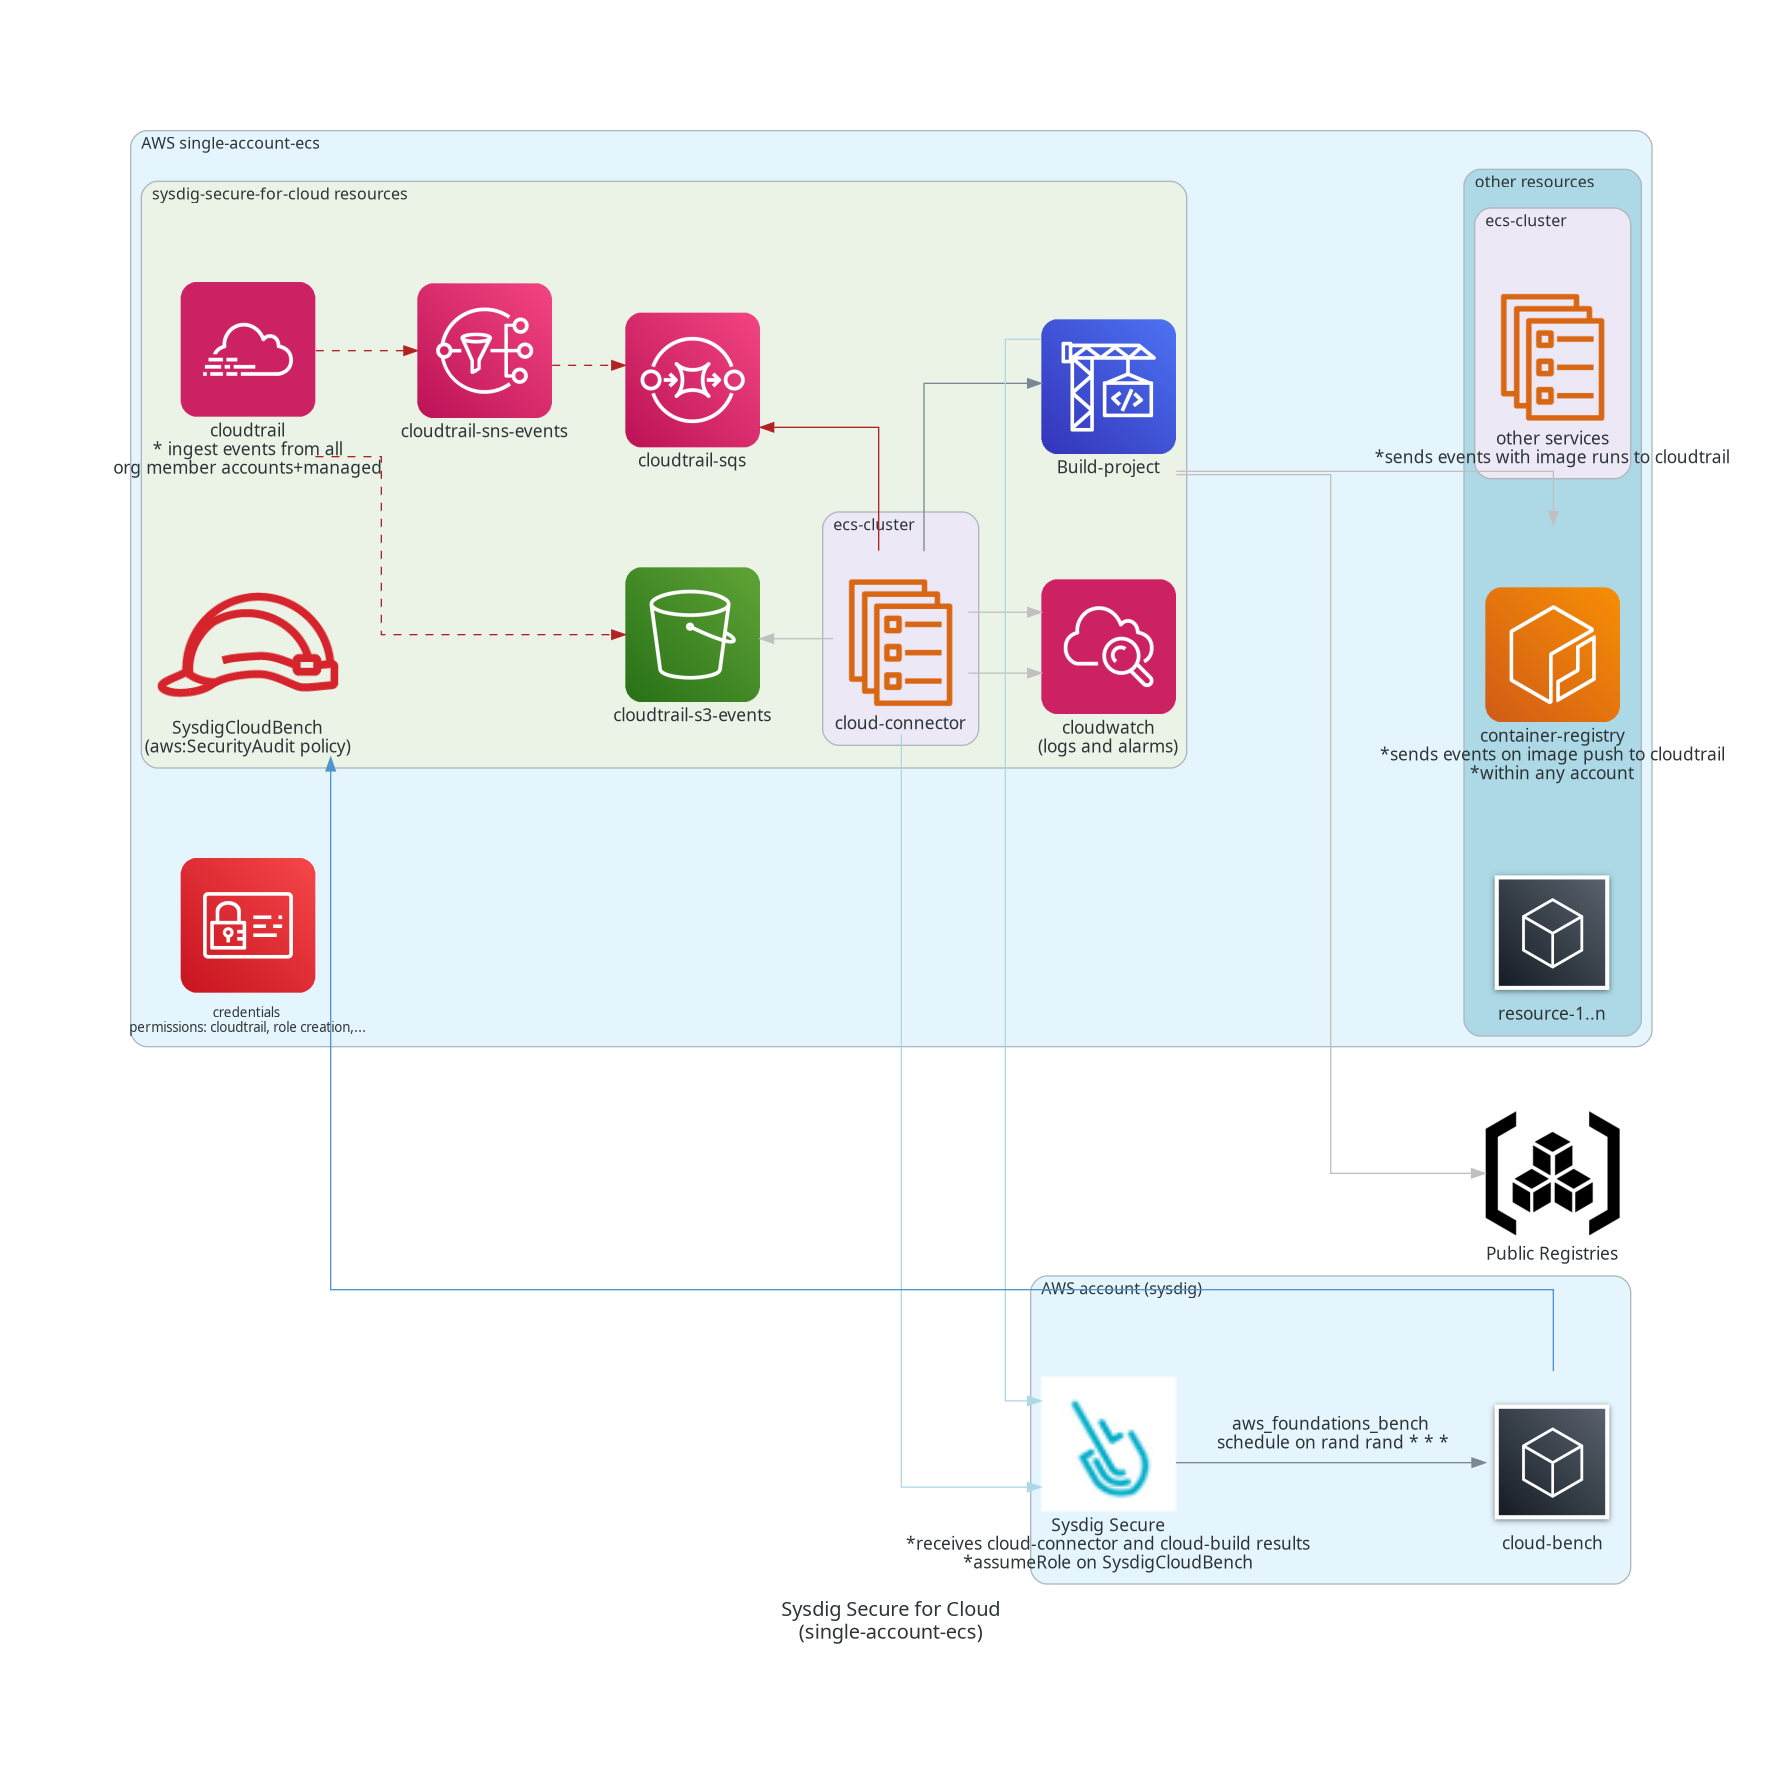
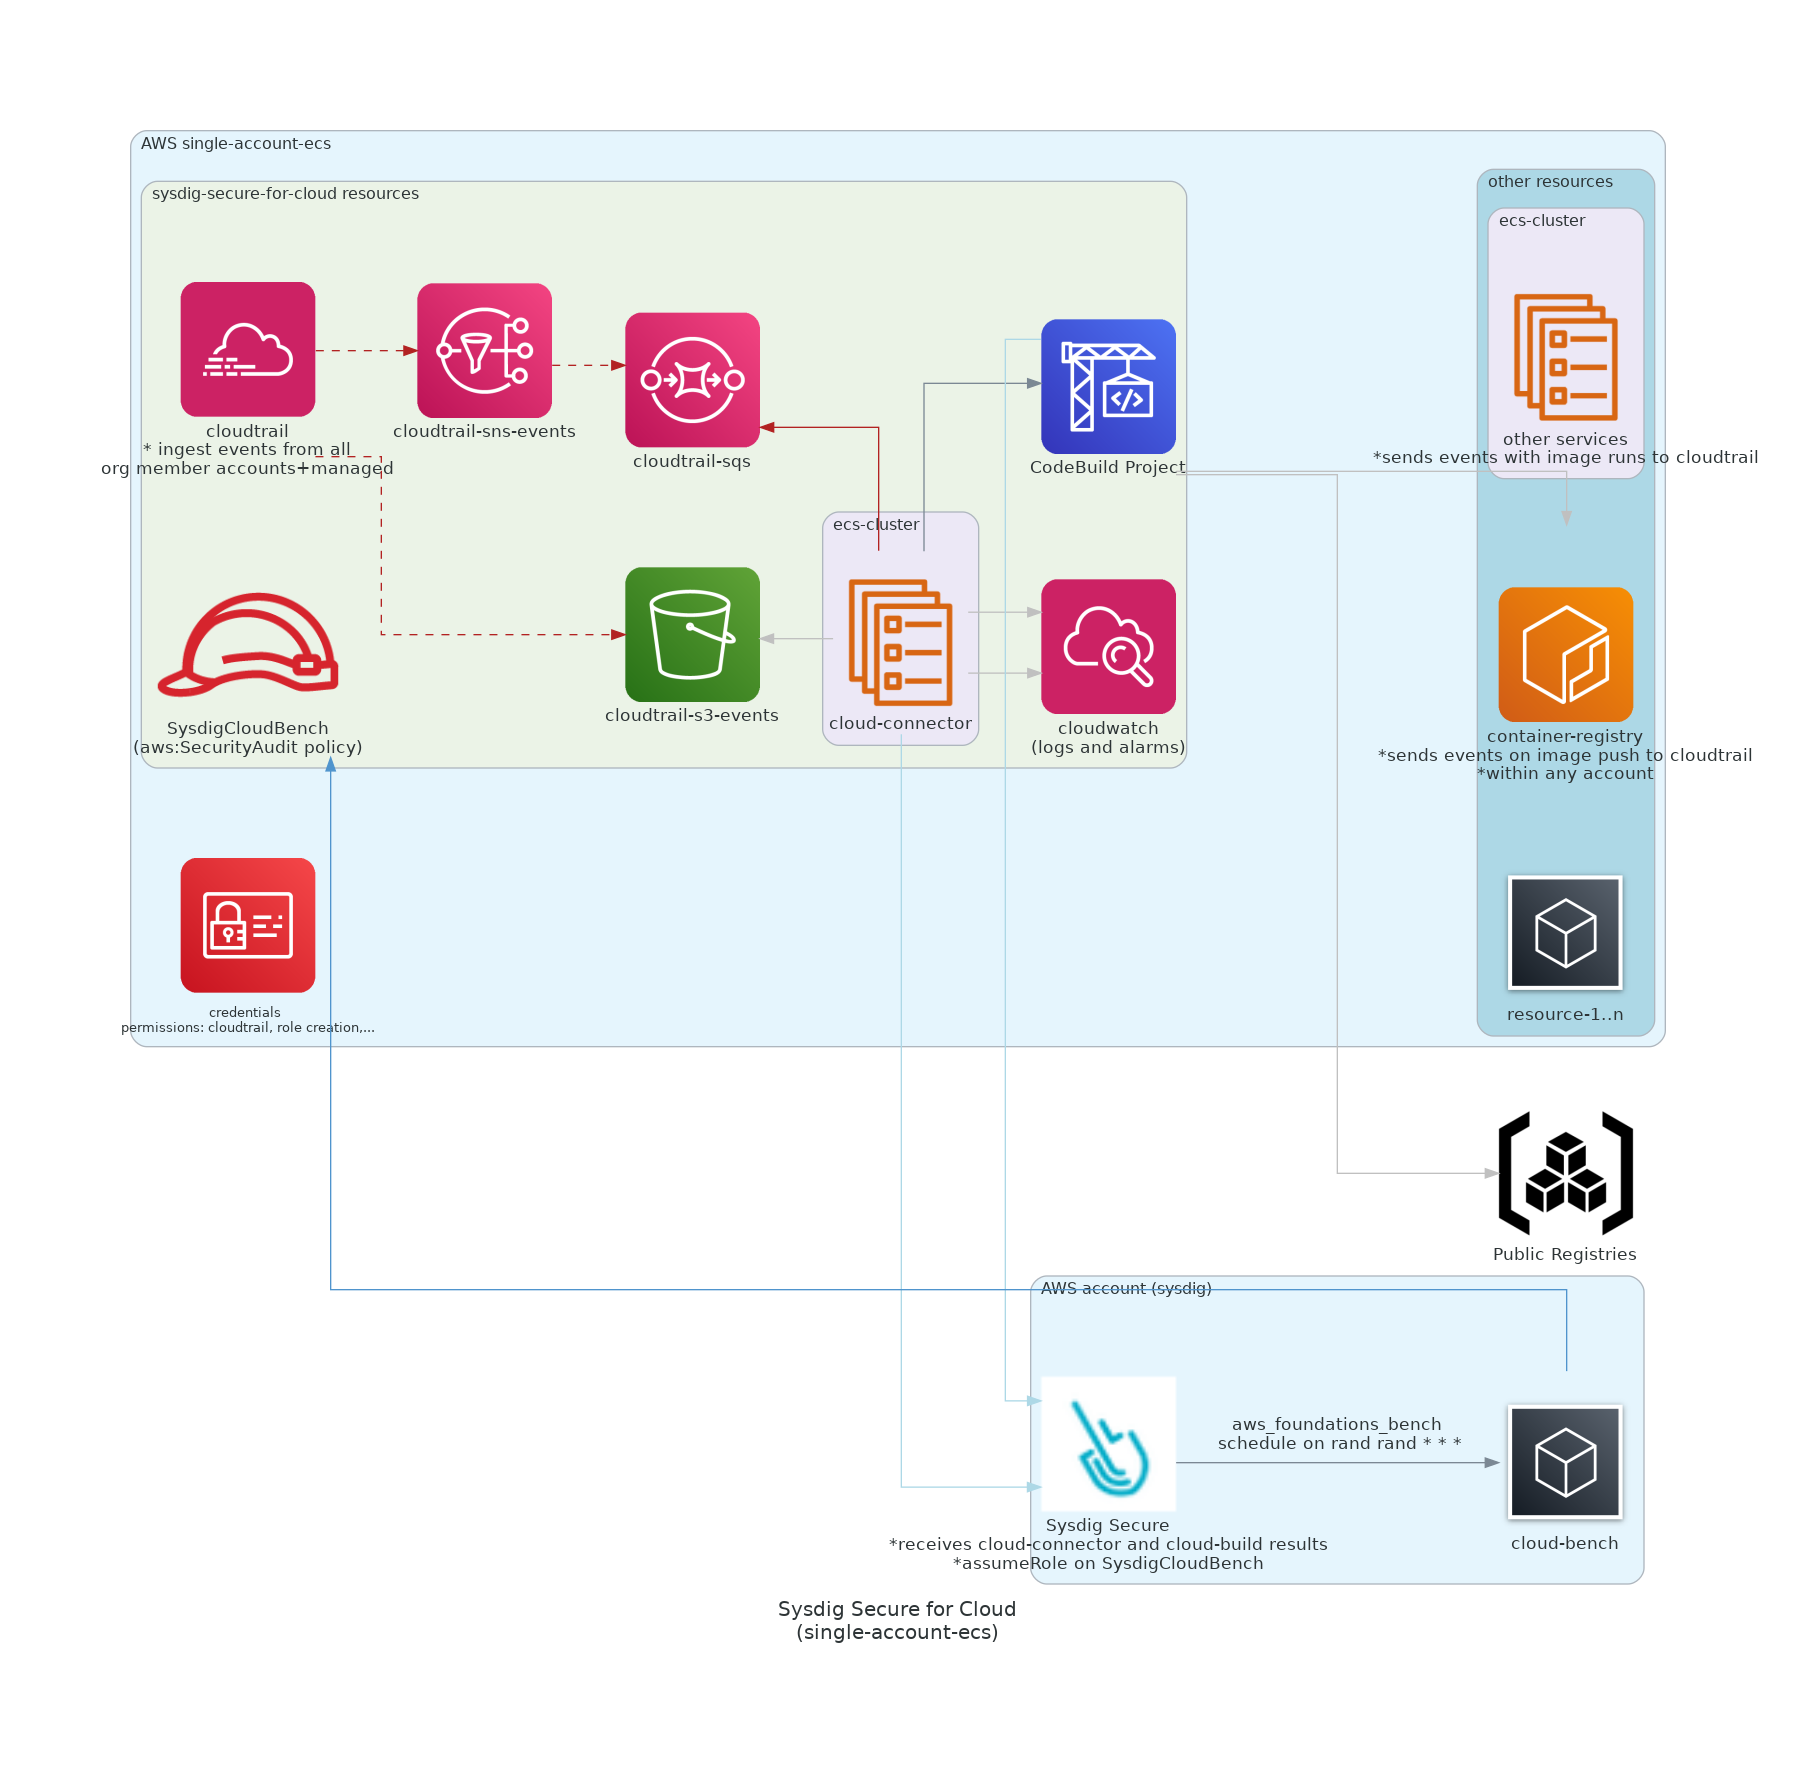
doc: add service name to scanning service

diff --git a/examples/single-account-apprunner/diagram-single.py b/examples/single-account-apprunner/diagram-single.py
@@ -69,7 +69,7 @@ with Diagram("Sysdig Secure for Cloud{}(single-account)".format("\n"), graph_att
             cloud_connector >> Edge(color=color_non_important) >>  cloudwatch
 
             # scanning
-            codebuild = Codebuild("Build-project")
+            codebuild = Codebuild("CodeBuild Project")
             cloud_connector >> Edge(color=color_non_important) >> cloudwatch
             cloud_connector >> codebuild
             codebuild >> Edge(color=color_non_important) >>  ecr

diff --git a/examples/single-account-ecs/diagram-single.py b/examples/single-account-ecs/diagram-single.py
@@ -70,7 +70,7 @@ with Diagram("Sysdig Secure for Cloud{}(single-account-ecs)".format("\n"), graph
             cloud_connector >> Edge(color=color_non_important) >>  cloudwatch
 
             # scanning
-            codebuild = Codebuild("Build-project")
+            codebuild = Codebuild("CodeBuild Project")
             cloud_connector >> Edge(color=color_non_important) >> cloudwatch
             cloud_connector >> codebuild
             codebuild >> Edge(color=color_non_important) >>  ecr

diff --git a/examples/organizational/diagram-org.py b/examples/organizational/diagram-org.py
@@ -67,7 +67,7 @@ with Diagram("Sysdig Secure for Cloud\n(organizational)", graph_attr=diagram_att
 
             sqs         = SQS("cloudtrail-sqs")
             cloudwatch  = Cloudwatch("cloudwatch\nlogs and alarms")
-            codebuild   = Codebuild("codebuild project")
+            codebuild   = Codebuild("CodeBuild Project")
 
             with Cluster("CFT StackSet Instance"):
                 cft_stack_2 = CloudformationStack("cloudformation-stack")

diff --git a/examples/single-account-k8s/diagram.py b/examples/single-account-k8s/diagram.py
@@ -65,7 +65,7 @@ with Diagram("Sysdig Secure for Cloud{}(single-account-k8s)".format("\n"), graph
 
 
             # scanning
-            codebuild = Codebuild("Build-project")
+            codebuild = Codebuild("CodeBuild Project")
             cloud_connector >> codebuild
             codebuild >> Edge(color=color_non_important) >>  ecr
             codebuild >> Edge(color=color_non_important) >>  public_registries
